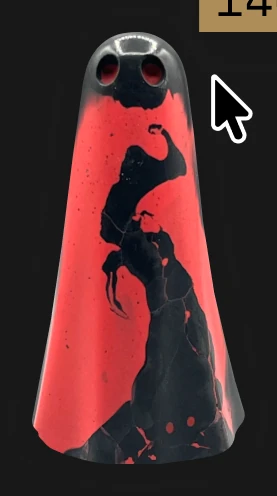
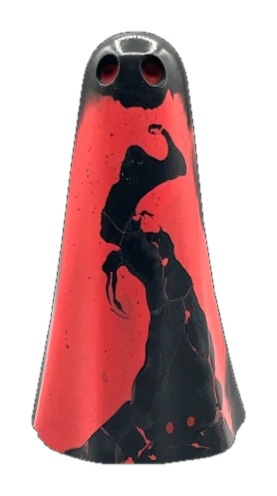
Ghost photo from the Ghost Page frame: no pointer or tag, transparent background

diff --git a/ghosts.html b/ghosts.html
@@ -39,7 +39,7 @@
                A ghost without data-name is a grey placeholder for the next one. -->
           <ul class="museum">
             <li class="ghost" tabindex="0" data-name="finial ghost of ms. bet" data-batch="146 worldwide" data-acquired="acquired in 2026">
-              <img class="ghost-img" src="assets/ghosts/ms-bet-finial.webp" alt="Finial Ghost of Ms Bet: cardinal red and black, with a dark reaching figure" draggable="false">
+              <img class="ghost-img" src="assets/ghosts/ms-bet-finial.webp?v=2" alt="Finial Ghost of Ms Bet: cardinal red and black, with a dark reaching figure" draggable="false">
             </li>
             <li class="ghost"><img class="ghost-img" src="assets/ghost.svg" alt="" draggable="false"></li>
             <li class="ghost"><img class="ghost-img" src="assets/ghost.svg" alt="" draggable="false"></li>
